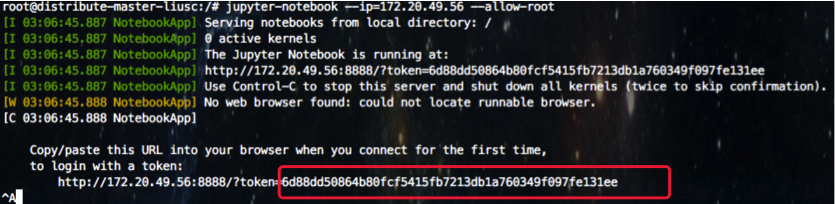
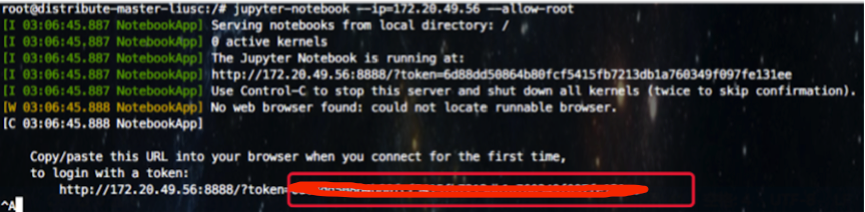
udpates

Changed region(s): [[0.0, 0.0, 1.0, 1.0], [0.0311, 0.7059, 0.8096, 1.0], [0.0, 0.9118, 0.0311, 1.0]]

diff --git a/README.md b/README.md
@@ -3,7 +3,10 @@
 ```bash
 ./create.sh pod-name host-name
 ```
-
+这里我们创建
+```
+./create.sh distribute-liusc-master liusc
+```
 # 安装jupyter book
 
 ```bash
@@ -24,7 +27,7 @@
 
 ![](/assets/hello.png)
 
-将token \`6d88dd50864b80fcf5415fb7213db1a760349f097fe131ee\`输入当中。
+将token \`6d88dd50864b80fcf********************\`输入当中。*号是为了安全
 
 创建ipython![](/assets/ipy.png)
 
